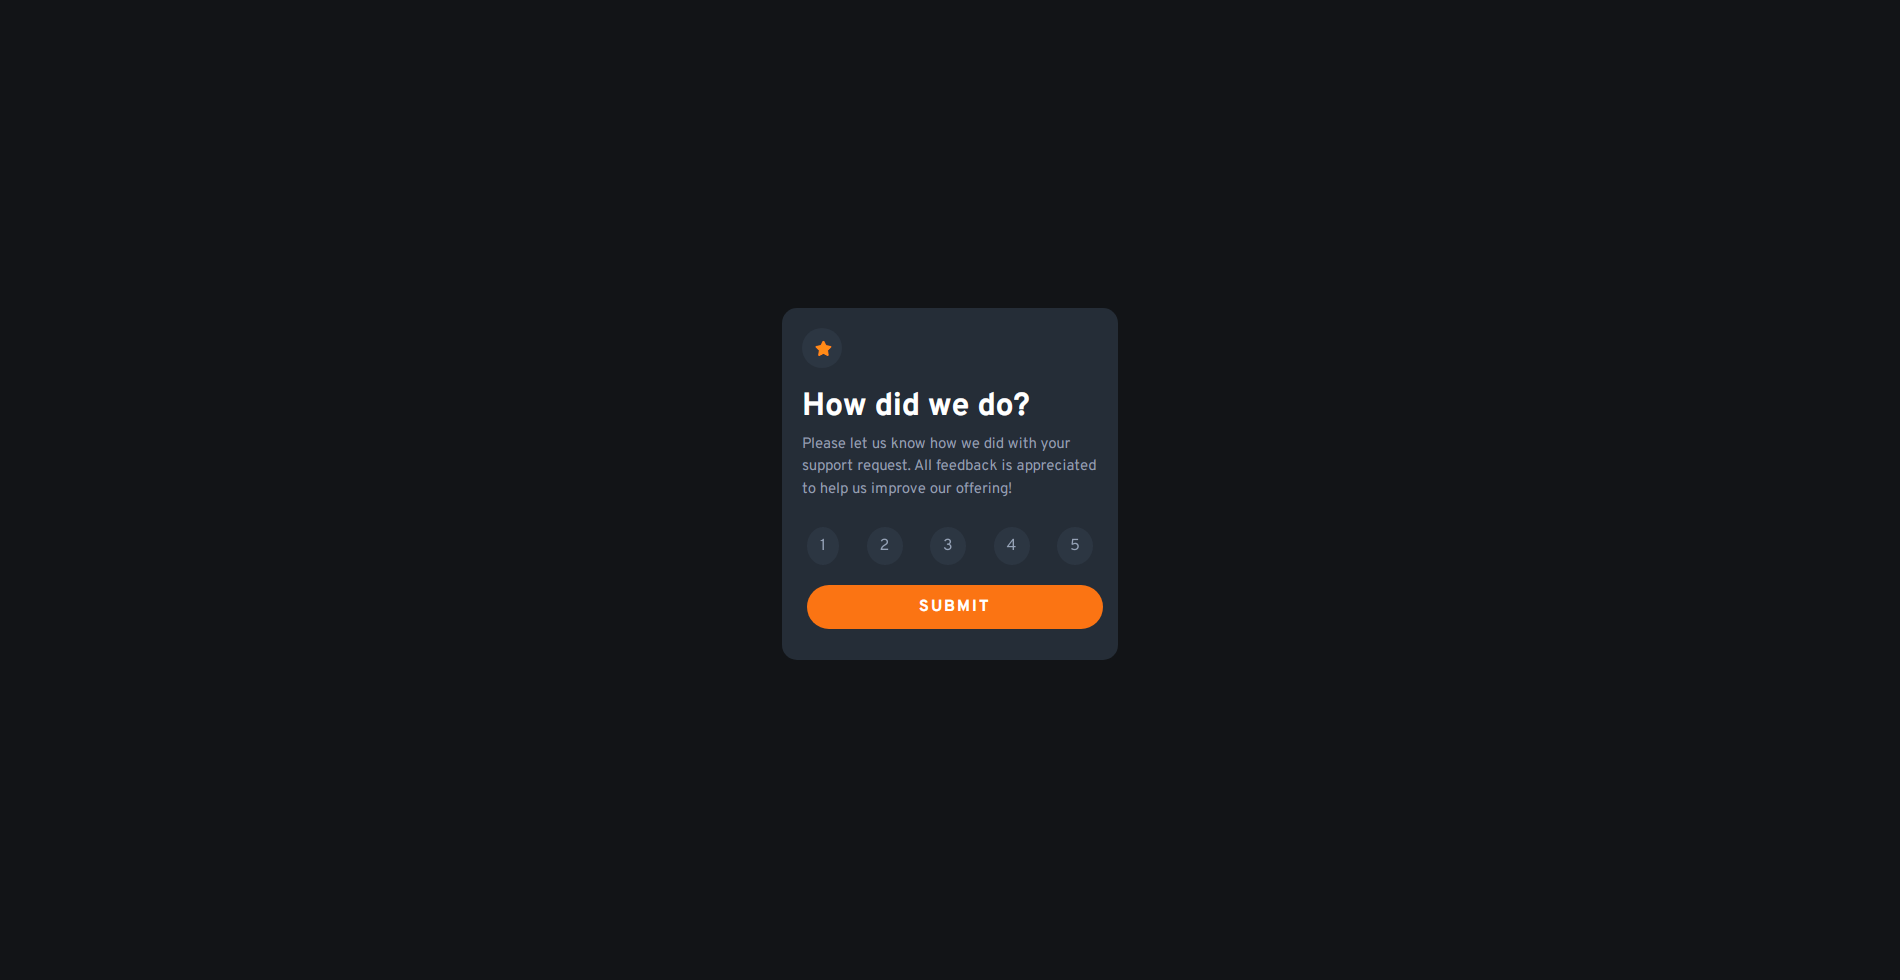
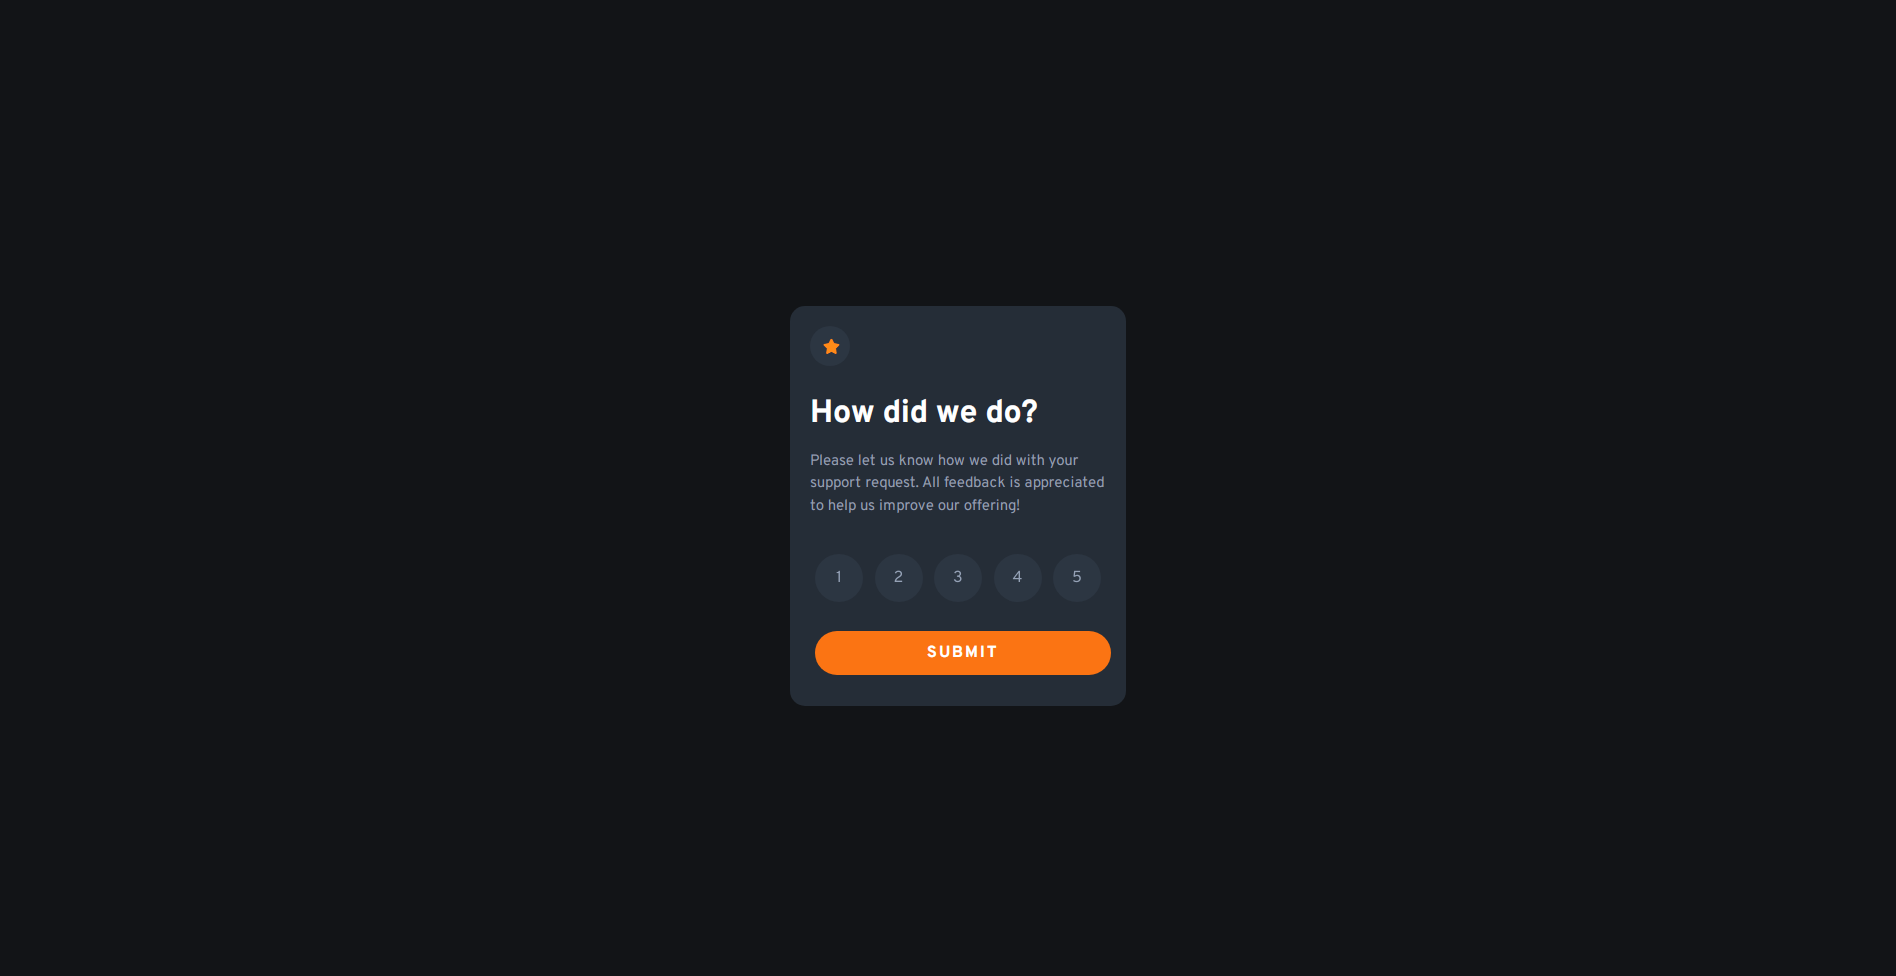
corrección tamaño botones y screenshot

Changed region(s): [[0.4045, 0.3074, 0.5912, 0.7377]]

diff --git a/css/styles.css b/css/styles.css
@@ -30,13 +30,14 @@ main {
 #card, #card-ty {
     border: 0;
     width: 21rem;
-    height: 22rem;
+    height: 25rem;
     border-radius: 15px;
     background-color: var(--color-darkBlue);
     color: var(--color-white);
     display: flex;
     flex-direction: column;
     padding: 20px;
+    justify-content: space-between;
 }
 
 i {
@@ -83,6 +84,8 @@ p {
     display:flex;
     align-items:center;
     justify-content: center;
+    height: 48px;
+    width: 48px;
 }
 
 .btn:hover {
